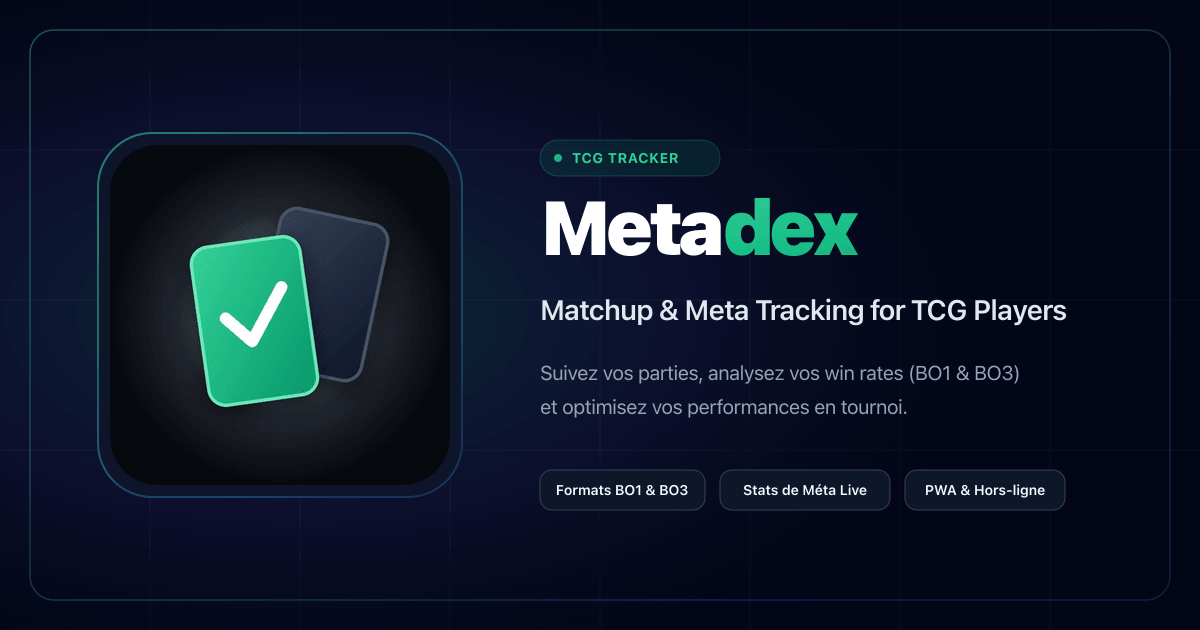
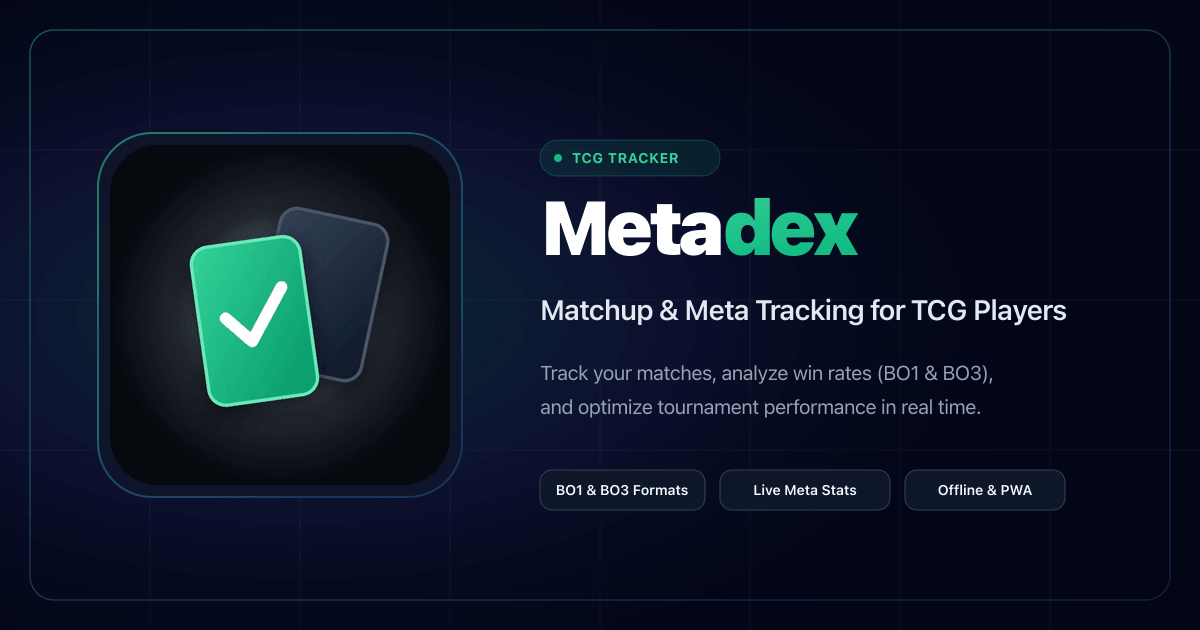
fix(layout): add safe area top padding to header and translate SEO to English

diff --git a/nuxt.config.ts b/nuxt.config.ts
@@ -13,7 +13,7 @@ export default defineNuxtConfig({
       meta: [
         { name: 'viewport', content: 'width=device-width, initial-scale=1, viewport-fit=cover' },
         { name: 'theme-color', content: '#020617' },
-        { name: 'description', content: 'Suivez vos parties, analysez vos win rates (BO1 & BO3) et optimisez vos performances en tournoi TCG avec des statistiques méta en temps réel.' },
+        { name: 'description', content: 'Track your matches, analyze win rates (BO1 & BO3), and optimize your tournament performance with real-time TCG meta statistics.' },
         { name: 'mobile-web-app-capable', content: 'yes' },
         { name: 'apple-mobile-web-app-capable', content: 'yes' },
         { name: 'apple-mobile-web-app-status-bar-style', content: 'black' },
@@ -22,7 +22,7 @@ export default defineNuxtConfig({
         { property: 'og:site_name', content: 'Metadex' },
         { property: 'og:type', content: 'website' },
         { property: 'og:title', content: 'Metadex — TCG Matchup & Meta Tracker' },
-        { property: 'og:description', content: 'Suivez vos parties, analysez vos win rates (BO1 & BO3) et optimisez vos performances en tournoi TCG avec des statistiques méta en temps réel.' },
+        { property: 'og:description', content: 'Track your matches, analyze win rates (BO1 & BO3), and optimize your tournament performance with real-time TCG meta statistics.' },
         { property: 'og:image', content: '/og-image.png' },
         { property: 'og:image:width', content: '1200' },
         { property: 'og:image:height', content: '630' },
@@ -30,7 +30,7 @@ export default defineNuxtConfig({
         // Twitter Card
         { name: 'twitter:card', content: 'summary_large_image' },
         { name: 'twitter:title', content: 'Metadex — TCG Matchup & Meta Tracker' },
-        { name: 'twitter:description', content: 'Suivez vos parties, analysez vos win rates (BO1 & BO3) et optimisez vos performances en tournoi TCG avec des statistiques méta en temps réel.' },
+        { name: 'twitter:description', content: 'Track your matches, analyze win rates (BO1 & BO3), and optimize your tournament performance with real-time TCG meta statistics.' },
         { name: 'twitter:image', content: '/og-image.png' }
       ],
       link: [

diff --git a/app.vue b/app.vue
@@ -6,9 +6,9 @@ import PwaInstallPrompt from '~/components/ui/PwaInstallPrompt.vue'
 
 useSeoMeta({
   title: 'Metadex — TCG Matchup & Meta Tracker',
-  description: 'Suivez vos parties, analysez vos win rates (BO1 & BO3) et optimisez vos performances en tournoi TCG avec des statistiques méta en temps réel.',
+  description: 'Track your matches, analyze win rates (BO1 & BO3), and optimize your tournament performance with real-time TCG meta statistics.',
   ogTitle: 'Metadex — TCG Matchup & Meta Tracker',
-  ogDescription: 'Suivez vos parties, analysez vos win rates (BO1 & BO3) et optimisez vos performances en tournoi TCG avec des statistiques méta en temps réel.',
+  ogDescription: 'Track your matches, analyze win rates (BO1 & BO3), and optimize your tournament performance with real-time TCG meta statistics.',
   ogImage: '/og-image.png',
   ogImageWidth: 1200,
   ogImageHeight: 630,
@@ -17,7 +17,7 @@ useSeoMeta({
   ogType: 'website',
   twitterCard: 'summary_large_image',
   twitterTitle: 'Metadex — TCG Matchup & Meta Tracker',
-  twitterDescription: 'Suivez vos parties, analysez vos win rates (BO1 & BO3) et optimisez vos performances en tournoi TCG avec des statistiques méta en temps réel.',
+  twitterDescription: 'Track your matches, analyze win rates (BO1 & BO3), and optimize your tournament performance with real-time TCG meta statistics.',
   twitterImage: '/og-image.png'
 })
 </script>

diff --git a/pages/login.vue b/pages/login.vue
@@ -11,7 +11,7 @@ const error = computed(() => route.query.error as string | undefined)
 </script>
 
 <template>
-  <div class="min-h-screen flex items-center justify-center bg-slate-100 dark:bg-slate-950 px-4 relative overflow-hidden transition-colors">
+  <div class="min-h-screen flex items-center justify-center bg-slate-100 dark:bg-slate-950 px-4 pt-safe pb-safe relative overflow-hidden transition-colors">
     <!-- Ambient glow background effects -->
     <div class="absolute -top-32 -left-32 w-96 h-96 bg-emerald-500/10 rounded-full blur-3xl pointer-events-none" />
     <div class="absolute -bottom-32 -right-32 w-96 h-96 bg-indigo-500/10 rounded-full blur-3xl pointer-events-none" />

diff --git a/components/AppHeader.vue b/components/AppHeader.vue
@@ -13,7 +13,7 @@ const isGameMetaModalOpen = ref(false)
 </script>
 
 <template>
-  <header class="border-b border-slate-200 dark:border-slate-800 sticky top-0 z-40 bg-white dark:bg-slate-950 transition-colors">
+  <header class="border-b border-slate-200 dark:border-slate-800 sticky top-0 z-40 bg-white dark:bg-slate-950 pt-safe transition-colors">
     <div class="max-w-7xl mx-auto px-4 sm:px-6 lg:px-8 h-16 flex items-center justify-between gap-4">
       <!-- Logo & Navigation -->
       <div class="flex items-center gap-3 sm:gap-6 min-w-0">
